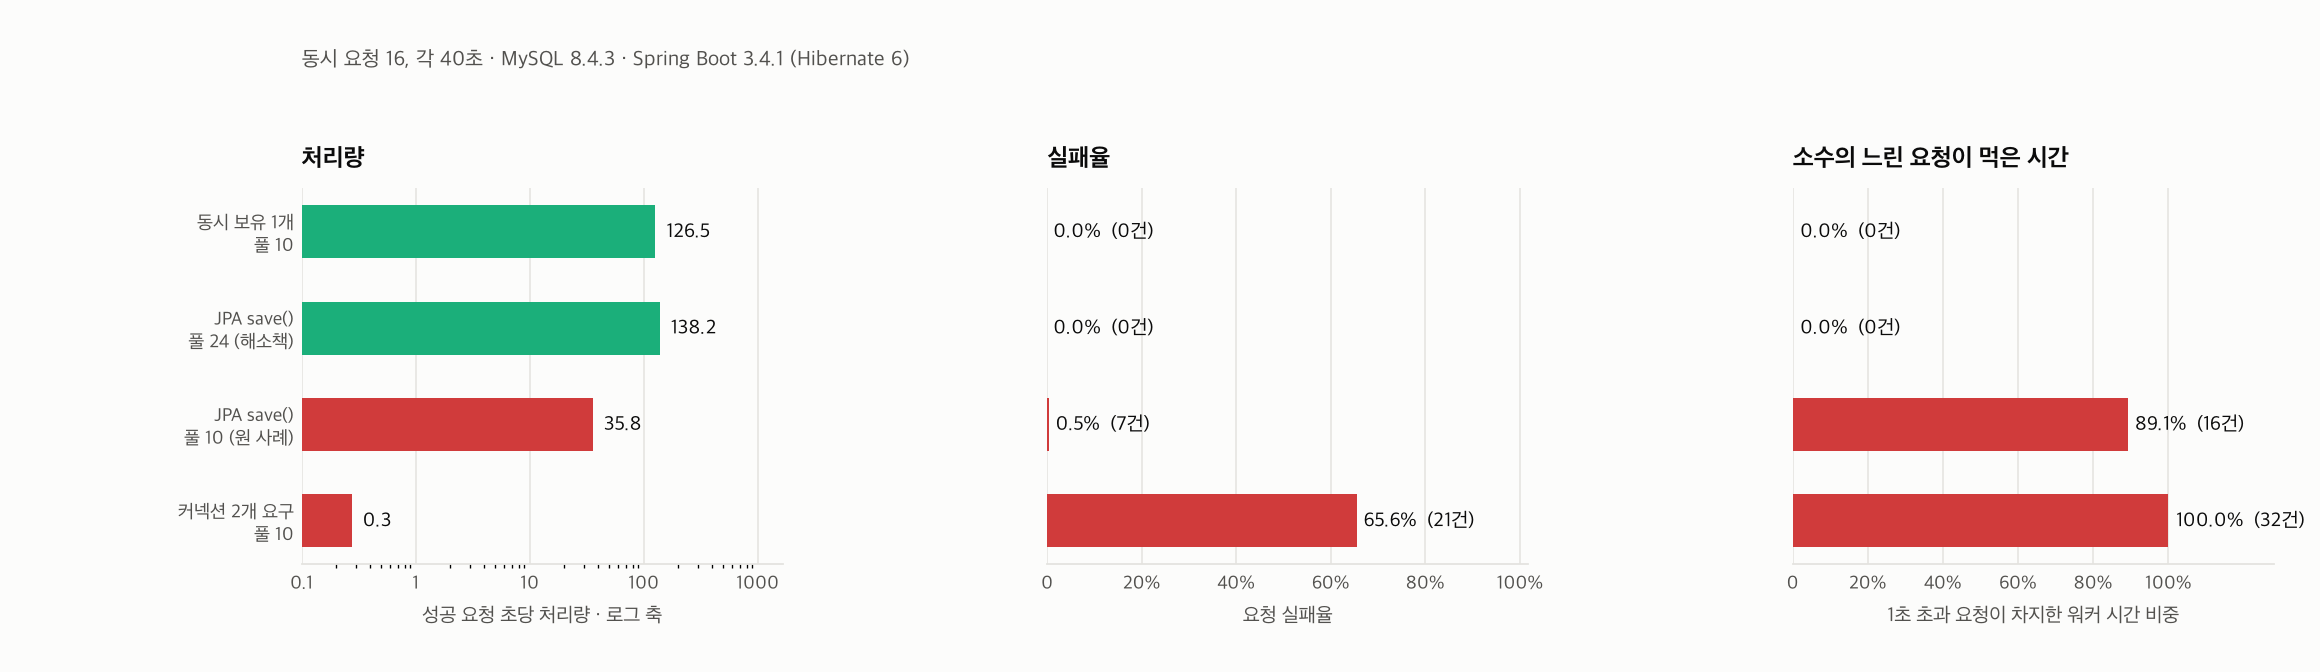
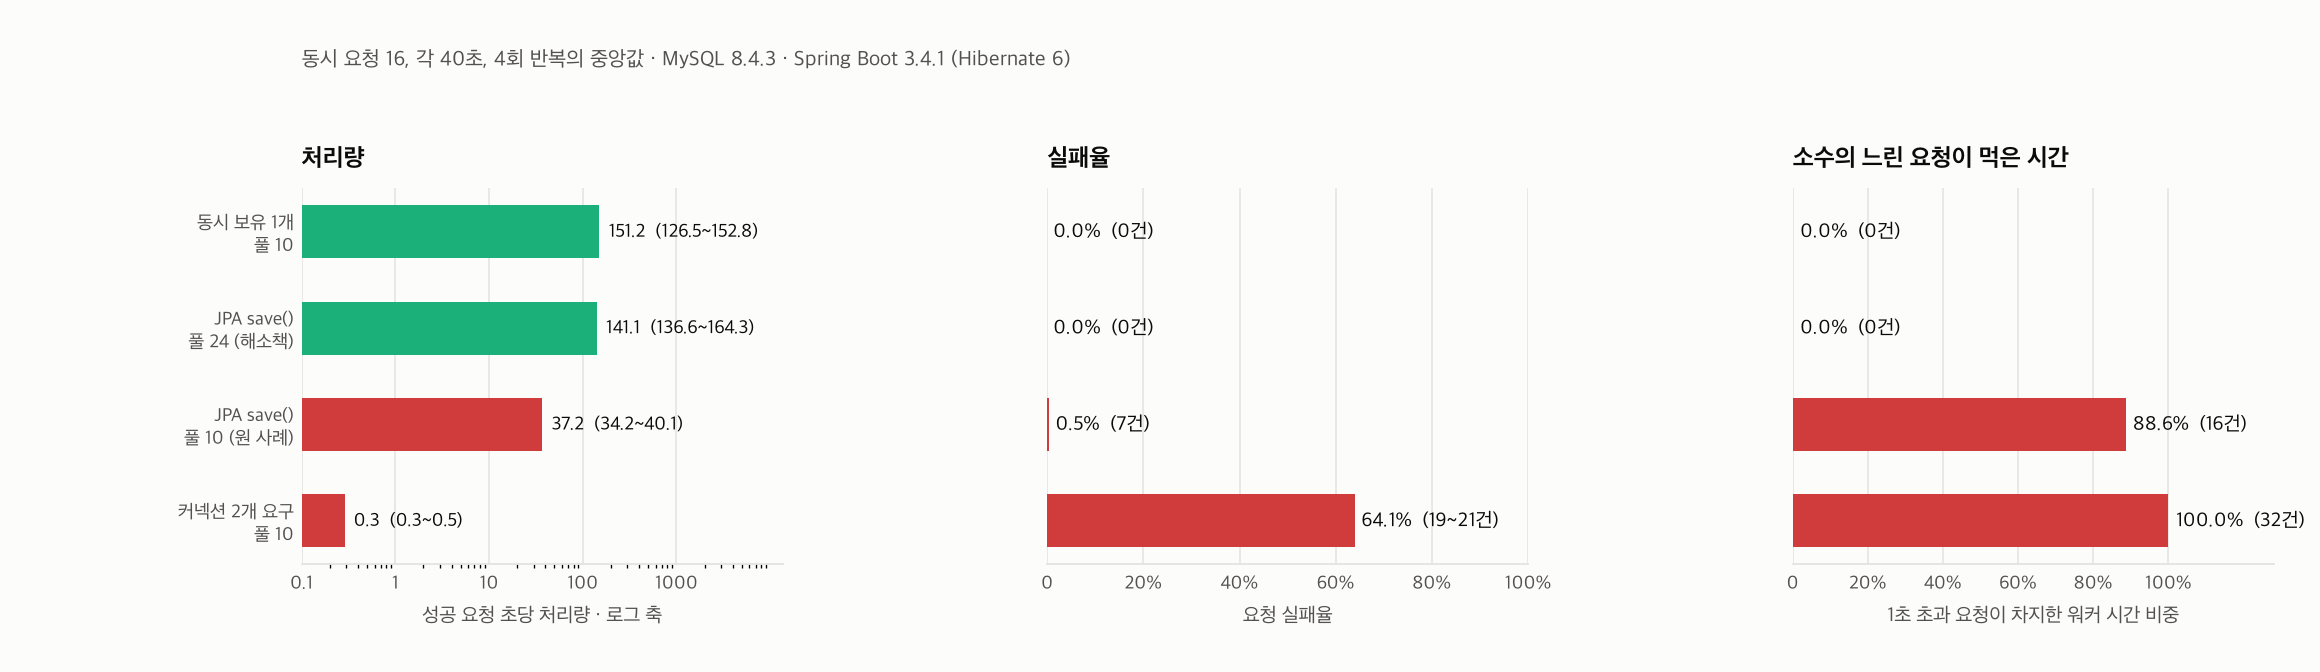
장애 재현 세 편의 수치를 4회 반복 결과로 갱신
CONVENTIONS 11절 체크리스트를 새 세 편에 돌려 반복 측정 없이 발행한 것을
바로잡았다. 조건마다 세 번 더 돌려 4회로 만들고 처리량을 중앙값과 범위로
바꿨다.

커넥션 풀 데드락은 3.9배라고 적었던 것이 실제로 3.6배에서 4.3배였다.
워커 시간 89.1%는 88.4~89.1%다. 동시 보유 1개 조건의 초당 126.5건은 나머지
세 회차 151~153건보다 낮아 이상값에 가깝다. 다만 질적 결론은 전부 유지됐다.
실패가 정확히 7건, 1초 초과가 정확히 16건으로 네 회차에서 어긋나지 않았다.

서브트랜잭션 절벽은 오히려 더 좁게 모였다. 64개까지 조회 0건, 1만 개에서
빗나감 6건이 네 회차 모두 같고, 미스율은 22.2~22.4%, 기준선 대비 67~71%,
SubtransSLRU 대기는 44~57%다. 47%라고 적었던 것은 대기 샘플 파일이 회차마다
누적된 상태로 계산한 값이었다.

XID wraparound는 임계값이 상수 계산이라 네 회차에서 한 자리도 흔들리지
않았고 복구 시각도 +40초로 같았다. 다만 그 값이 20초 간격 샘플링의 결과이고
autovacuum_naptime 기본값이 60초라는 조건을 함께 적었다.

절대 처리량은 회차 간 1.2배 안쪽으로 흔들리므로 기준선 대비는 회차마다 따로
계산했다. 차트도 회차 집계에서 다시 만들었다.

diff --git a/src/content/blog/incident/hikaricp-pool-deadlock.md b/src/content/blog/incident/hikaricp-pool-deadlock.md
@@ -1,8 +1,8 @@
 ---
 title: 'DB는 한가한데 앱만 멈춘다, 커넥션 풀 데드락'
 titleEn: 'The Database Is Idle and Only the Application Stalls: Connection Pool Deadlock'
-description: '우아한형제들이 공개한 커넥션 풀 데드락 사례를 MySQL 8.4.3과 Spring Boot 3.4.1에서 네 조건으로 재현했습니다. 원인은 개발자가 커넥션을 두 개 잡는 코드를 쓴 것이 아니라 엔티티에 붙인 @GeneratedValue(AUTO)입니다. MySQL에는 시퀀스가 없어 Hibernate가 시퀀스 테이블을 별도 커넥션에서 FOR UPDATE로 잠그므로 save() 한 줄이 커넥션 두 개를 동시에 요구합니다. 동시 요청 16에 풀 10으로 40초를 재니 커넥션을 노골적으로 두 개 잡는 조건은 요청 32건 중 21건이 30초 타임아웃까지 가서 초당 0.3건에 그쳤습니다. 원 사례를 그대로 옮긴 JPA 조건은 전멸하지 않고 실패율 0.5%에 초당 35.8건이었는데, 풀만 24로 올리면 138.2건으로 3.9배가 됩니다. Hibernate 6의 pooled 옵티마이저가 allocationSize 50으로 ID를 미리 확보해 채번이 50건에 한 번만 일어나기 때문이고, 시퀀스 테이블의 next_val이 1에서 51, 101로 뛰는 것으로 확인했습니다. JPA 조건은 실패율 0.5%에 p95 61ms로 지표가 멀쩡한데도 1초를 넘긴 16건이 워커 시간 640초 중 482초, 89.1%를 차지했습니다. 커넥션 동시 보유를 1로 줄이면 풀 10 그대로 실패 0건에 초당 126.5건입니다. 널리 인용되는 위키 공식과 우아한형제들이 실제로 쓴 계산이 다른 식이라는 점도 구분해 적었습니다.'
-descriptionEn: "This session reproduces the connection pool deadlock that Woowa Brothers published, running four conditions on MySQL 8.4.3 and Spring Boot 3.4.1. The cause is not developer code that grabs two connections but the @GeneratedValue(AUTO) annotation on the entity, because MySQL has no sequence object and Hibernate locks a sequence table with FOR UPDATE on a separate connection, so a single save() demands two connections at once. With 16 concurrent requests against a pool of 10 over 40 seconds, the condition that explicitly holds two connections completed only 32 requests, 21 of which burned the full 30 second timeout, for 0.3 requests per second. The JPA condition that mirrors the original case did not collapse: it reported a 0.5% failure rate at 35.8 requests per second, and raising the pool to 24 lifted that to 138.2, a 3.9x gain. Hibernate 6 defaults to a pooled optimizer with an allocation size of 50, so the sequence fetch happens once every 50 inserts, confirmed by watching next_val jump from 1 to 51 to 101. Even with a 0.5% failure rate and a healthy 61ms p95, the 16 requests that exceeded one second consumed 482 of the 640 available worker seconds, or 89.1%. Reducing concurrent connection ownership to one keeps the pool at 10 with zero failures at 126.5 requests per second. The post also separates the widely quoted wiki formula from the calculation Woowa Brothers actually applied."
+description: '우아한형제들이 공개한 커넥션 풀 데드락 사례를 MySQL 8.4.3과 Spring Boot 3.4.1에서 네 조건으로 재현했습니다. 원인은 개발자가 커넥션을 두 개 잡는 코드를 쓴 것이 아니라 엔티티에 붙인 @GeneratedValue(AUTO)입니다. MySQL에는 시퀀스가 없어 Hibernate가 시퀀스 테이블을 별도 커넥션에서 FOR UPDATE로 잠그므로 save() 한 줄이 커넥션 두 개를 동시에 요구합니다. 동시 요청 16에 풀 10으로 40초를 재니 커넥션을 노골적으로 두 개 잡는 조건은 요청 32건 중 21건이 30초 타임아웃까지 가서 초당 0.3건에 그쳤습니다. 원 사례를 그대로 옮긴 JPA 조건은 전멸하지 않고 실패율 0.5%에 초당 37.2건이었는데, 풀만 24로 올리면 141.1건이 됩니다. 4회 반복에서 이 배수는 3.6배에서 4.3배였습니다. Hibernate 6의 pooled 옵티마이저가 allocationSize 50으로 ID를 미리 확보해 채번이 50건에 한 번만 일어나기 때문이고, 시퀀스 테이블의 next_val이 1에서 51, 101로 뛰는 것으로 확인했습니다. JPA 조건은 실패율 0.5%에 p95 55ms로 지표가 멀쩡한데도 1초를 넘긴 16건이 워커 시간 640초의 88.4~89.1%를 차지했고, 그 16건은 네 회차에서 한 번도 어긋나지 않았습니다. 커넥션 동시 보유를 1로 줄이면 풀 10 그대로 실패 0건에 초당 151건입니다. 널리 인용되는 위키 공식과 우아한형제들이 실제로 쓴 계산이 다른 식이라는 점도 구분해 적었습니다.'
+descriptionEn: "This session reproduces the connection pool deadlock that Woowa Brothers published, running four conditions on MySQL 8.4.3 and Spring Boot 3.4.1. The cause is not developer code that grabs two connections but the @GeneratedValue(AUTO) annotation on the entity, because MySQL has no sequence object and Hibernate locks a sequence table with FOR UPDATE on a separate connection, so a single save() demands two connections at once. With 16 concurrent requests against a pool of 10 over 40 seconds, the condition that explicitly holds two connections completed only 32 requests, 21 of which burned the full 30 second timeout, for 0.3 requests per second. The JPA condition that mirrors the original case did not collapse: it reported a 0.5% failure rate at a median 37.2 requests per second, and raising the pool to 24 lifted that to 141.1. Computed per round across four runs, that gap ranges from 3.6x to 4.3x. Hibernate 6 defaults to a pooled optimizer with an allocation size of 50, so the sequence fetch happens once every 50 inserts, confirmed by watching next_val jump from 1 to 51 to 101. Even with a 0.5% failure rate and a healthy 55ms p95, the 16 requests that exceeded one second consumed 88.4% to 89.1% of the 640 available worker seconds, and that count of 16 held in all four rounds. Reducing concurrent connection ownership to one keeps the pool at 10 with zero failures at about 151 requests per second. The post also separates the widely quoted wiki formula from the calculation Woowa Brothers actually applied."
 date: 2026-07-30
 tags:
   - MySQL
@@ -177,33 +177,35 @@ sponsor_jpa_seq
 
 ![조건별 처리량과 실패율, 그리고 느린 요청이 먹은 워커 시간](/uploads/incident/hikaricp-pool-deadlock/chart-pool.png)
 
-| 조건 | 성공 | 실패 | 실패율 | 초당 처리량 | p50 | p95 | 최대 |
-|---|---|---|---|---|---|---|---|
-| `jpa-10` | 1,433 | 7 | 0.5% | 35.8 | 39ms | 61ms | 30,141ms |
-| `jpa-24` | 5,526 | 0 | 0% | 138.2 | 42ms | 60ms | 131ms |
-| `two-10` | 11 | 21 | 65.6% | 0.3 | 30,092ms | 30,125ms | 30,125ms |
-| `one-10` | 5,058 | 0 | 0% | 126.5 | 85ms | 101ms | 224ms |
+4회 반복의 중앙값이고 괄호는 최소에서 최대입니다.
 
-`two-10`이 데드락의 순수한 모습입니다. 40초 동안 요청이 32건밖에 처리되지 않았고 그중 21건이 30초를 꽉 채우고 죽었습니다. p50이 30초라는 것은 절반 이상이 타임아웃까지 갔다는 뜻입니다.
+| 조건 | 실패 | 실패율 | 초당 처리량 | p50 | p95 |
+|---|---|---|---|---|---|
+| `jpa-10` | 7건 (네 번 다) | 0.5% | 37.2 (34.2~40.1) | 39ms | 55ms |
+| `jpa-24` | 0건 | 0% | 141.1 (136.6~164.3) | 40ms | 55ms |
+| `two-10` | 19~21건 | 64.1% | 0.3 (0.3~0.5) | 30,096ms | 30,129ms |
+| `one-10` | 0건 | 0% | 151.2 (126.5~152.8) | 78ms | 85ms |
 
-`one-10`은 같은 풀 10에서 5,058건을 실패 없이 처리했습니다. 풀 크기를 건드리지 않고 동시 보유 개수만 1로 줄여서 얻은 결과입니다. 요청당 지연은 p50 85ms로 `jpa-24`의 42ms보다 긴데, 커넥션을 두 번 나눠 빌리니 획득 비용을 두 번 내기 때문입니다. 그래도 한 번도 실패하지 않습니다.
+`two-10`이 데드락의 순수한 모습입니다. 40초 동안 요청이 32건밖에 처리되지 않았고 그중 19건에서 21건이 30초를 꽉 채우고 죽었습니다. p50이 30초라는 것은 절반 이상이 타임아웃까지 갔다는 뜻입니다.
+
+`one-10`은 같은 풀 10에서 네 회차 모두 실패 없이 처리했습니다. 초당 151건 안팎입니다. 풀 크기를 건드리지 않고 동시 보유 개수만 1로 줄여서 얻은 결과입니다. 요청당 지연은 p50 78ms로 `jpa-24`의 40ms보다 긴데, 커넥션을 두 번 나눠 빌리니 획득 비용을 두 번 내기 때문입니다. 그래도 한 번도 실패하지 않습니다.
 
 ### 실패율 0.5%가 처리량을 4분의 1로 떨어뜨렸습니다
 
-`jpa-10`과 `jpa-24`를 비교하면 실패율 차이는 0.5%포인트인데 처리량은 초당 35.8건과 138.2건으로 3.9배 벌어집니다. 요청별 소요 시간을 나눠 봤습니다.
+`jpa-10`과 `jpa-24`를 비교하면 실패율 차이는 0.5%포인트인데 처리량은 초당 37.2건과 141.1건으로 벌어집니다. 회차마다 계산하면 3.6배에서 4.3배입니다. 요청별 소요 시간을 나눠 봤습니다.
 
-| 조건 | 전체 요청 | 1초 초과 | 비율 | 1초 초과가 쓴 워커 시간 | 전체 대비 |
-|---|---|---|---|---|---|
-| `jpa-10` | 1,440 | 16 | 1.1% | 482초 | 89.1% |
-| `jpa-24` | 5,526 | 0 | 0% | 0초 | 0% |
-| `two-10` | 32 | 32 | 100% | 963초 | 100% |
-| `one-10` | 5,058 | 0 | 0% | 0초 | 0% |
+| 조건 | 1초 초과 | 1초 초과가 차지한 워커 시간 |
+|---|---|---|
+| `jpa-10` | 16건 (네 번 다) | 88.4~89.1% |
+| `jpa-24` | 0건 | 0% |
+| `two-10` | 32건 (네 번 다) | 99.9~100% |
+| `one-10` | 0건 | 0% |
 
-`jpa-10`에서 1초를 넘긴 요청은 16건, 전체의 1.1%입니다. 그 16건이 워커 시간의 89.1%를 먹었습니다. 워커 16개가 40초 동안 쓸 수 있는 시간이 640초인데 그중 482초가 이 16건에 묶여 있었습니다.
+`jpa-10`에서 1초를 넘긴 요청은 네 회차 모두 정확히 16건이고 전체의 1.1% 안팎입니다. 그 16건이 워커 시간의 88.4%에서 89.1%를 먹었습니다. 워커 16개가 40초 동안 쓸 수 있는 시간이 640초인데 그중 570초 가까이가 이 16건에 묶여 있었습니다.
 
 대시보드에서 실패율만 보면 0.5%라 정상으로 보입니다. p95도 61ms로 멀쩡합니다. 이 조건에서 이상을 알아채려면 최대값이나 요청별 소요 시간의 분포를 봐야 합니다. p95까지만 보는 대시보드는 이 장애를 놓칩니다.
 
-`two-10`의 963초가 640초를 넘는 이유는 타임아웃 30초짜리 요청이 측정 종료 시각을 넘겨 끝났기 때문입니다.
+`two-10`이 640초를 넘겨 쓰는 이유는 타임아웃 30초짜리 요청이 측정 종료 시각을 넘겨 끝났기 때문입니다.
 
 ## 6. 예상과 달랐던 점
 
